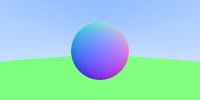
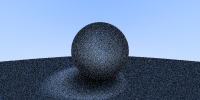
Diffuse added

diff --git a/src/main.rs b/src/main.rs
@@ -21,7 +21,8 @@ use model::Sphere;
 
 use std::{
     f64::INFINITY,
-    rc::Rc
+    rc::Rc,
+    sync::Arc,
 };
 
 fn write_color(pixcolor: Vector3, samples_per_pixel: u32) -> image::Rgb<u8> {
@@ -37,22 +38,30 @@ fn write_color(pixcolor: Vector3, samples_per_pixel: u32) -> image::Rgb<u8> {
     Vector3(clamp(r, 0.0, 0.999), clamp(g, 0.0, 0.999), clamp(b, 0.0, 0.999)).into_rgb()
 }
 
-fn ray_color(r: &Ray, world: &HittableList) -> Vector3 {
+fn ray_color(r: &Ray, world: &HittableList, depth: i32) -> Vector3 {
+    if depth <= 0 {
+        return Vector3(0.0, 0.0, 0.0)
+    }
+
     let mut rec: HitRecord = Default::default();
     if world.hit(r, 0.0..INFINITY, &mut rec) {
-        return 0.5 * (rec.normal + Vector3(1.0, 1.0, 1.0))
+        let target = rec.p + rec.normal + Vector3::from_random_in_unit_sphere();
+        return ray_color(&Ray::new(rec.p, target - rec.p), world, depth - 1)
     }
     let unit_dir = r.get_direction().unit();
     let t = 0.5 * (unit_dir.y() + 1.0);
     (1.0 - t) * Vector3(1.0, 1.0, 1.0) + t * Vector3(0.5, 0.7, 1.0)
 }
 
+const ANTI_ALIASING_ENABLED: bool = true;
 
 fn main() {
     let ratio = 2.0;
     let width = 200;
     let height = (width as f64/ ratio) as u32;
-    let samples_per_pixel = 100;
+    
+    let samples_per_pixel = 75;
+    let max_depth = 50;
 
     // The traverse direction of Rust's Vec is different from C++ std::vector's
     let mut world = HittableList::new();
@@ -60,19 +69,24 @@ fn main() {
     world.add(Rc::from(Sphere::new(Vector3(0.0, 0.0, -1.0), 0.5)));
 
     let cam = Camera::new();
-    
 
     let mut imgbuf = image::ImageBuffer::new(width, height);
     for (x, y, pix) in imgbuf.enumerate_pixels_mut() {
-        let mut pixcolor = Vector3::new();
-        for _ in 0..samples_per_pixel {
-            let u = (x as f64 + rand::random::<f64>()) / width as f64;
-            let v = ((height - y) as f64 + rand::random::<f64>())/ height as f64;
+        if ANTI_ALIASING_ENABLED {
+            let mut pixcolor = Vector3::new();
+            for _ in 0..samples_per_pixel {
+                let u = (x as f64 + rand::random::<f64>()) / width as f64;
+                let v = ((height - y) as f64 + rand::random::<f64>())/ height as f64;
+                let ray = cam.get_ray(u, v);
+                pixcolor += ray_color(&ray, &world, max_depth);
+            }
+            *pix = write_color(pixcolor, samples_per_pixel);
+        } else {
+            let u = x as f64 / width as f64;
+            let v = (height - y) as f64 / height as f64;
             let ray = cam.get_ray(u, v);
-            pixcolor += ray_color(&ray, &world)
+            *pix = ray_color(&ray, &world, max_depth).into_rgb();
         }
-        
-        *pix = write_color(pixcolor, samples_per_pixel)
     }
 
     imgbuf.save("test.png").unwrap();

diff --git a/src/rmath.rs b/src/rmath.rs
@@ -44,8 +44,21 @@ impl Vector3 {
         Vector3(0.0, 0.0, 0.0)
     }
 
-    pub fn from_other(other: Vector3) -> Self {
-        Vector3(other.0, other.1, other.2)
+    pub fn from_random() -> Self {
+        Vector3(rand::random::<f64>(), rand::random::<f64>(), rand::random::<f64>())
+    }
+
+    pub fn from_interval_random(i: Range<f64>) -> Self {
+        Vector3(random_interval(i.clone()), random_interval(i.clone()), random_interval(i.clone()))
+    }
+
+    pub fn from_random_in_unit_sphere() -> Self {
+        loop {
+            let candi = Vector3::from_random();
+            if candi.length_square() <= 1.0 {
+                return candi
+            }
+        }
     }
 
     pub fn x(&self) -> f64 {
@@ -73,7 +86,7 @@ impl Vector3 {
     }
 
     pub fn unit(&self) -> Self {
-        Vector3::from_other(*self / self.length())
+        *self / self.length()
     }
 
     pub fn to_string(&self) -> String {
